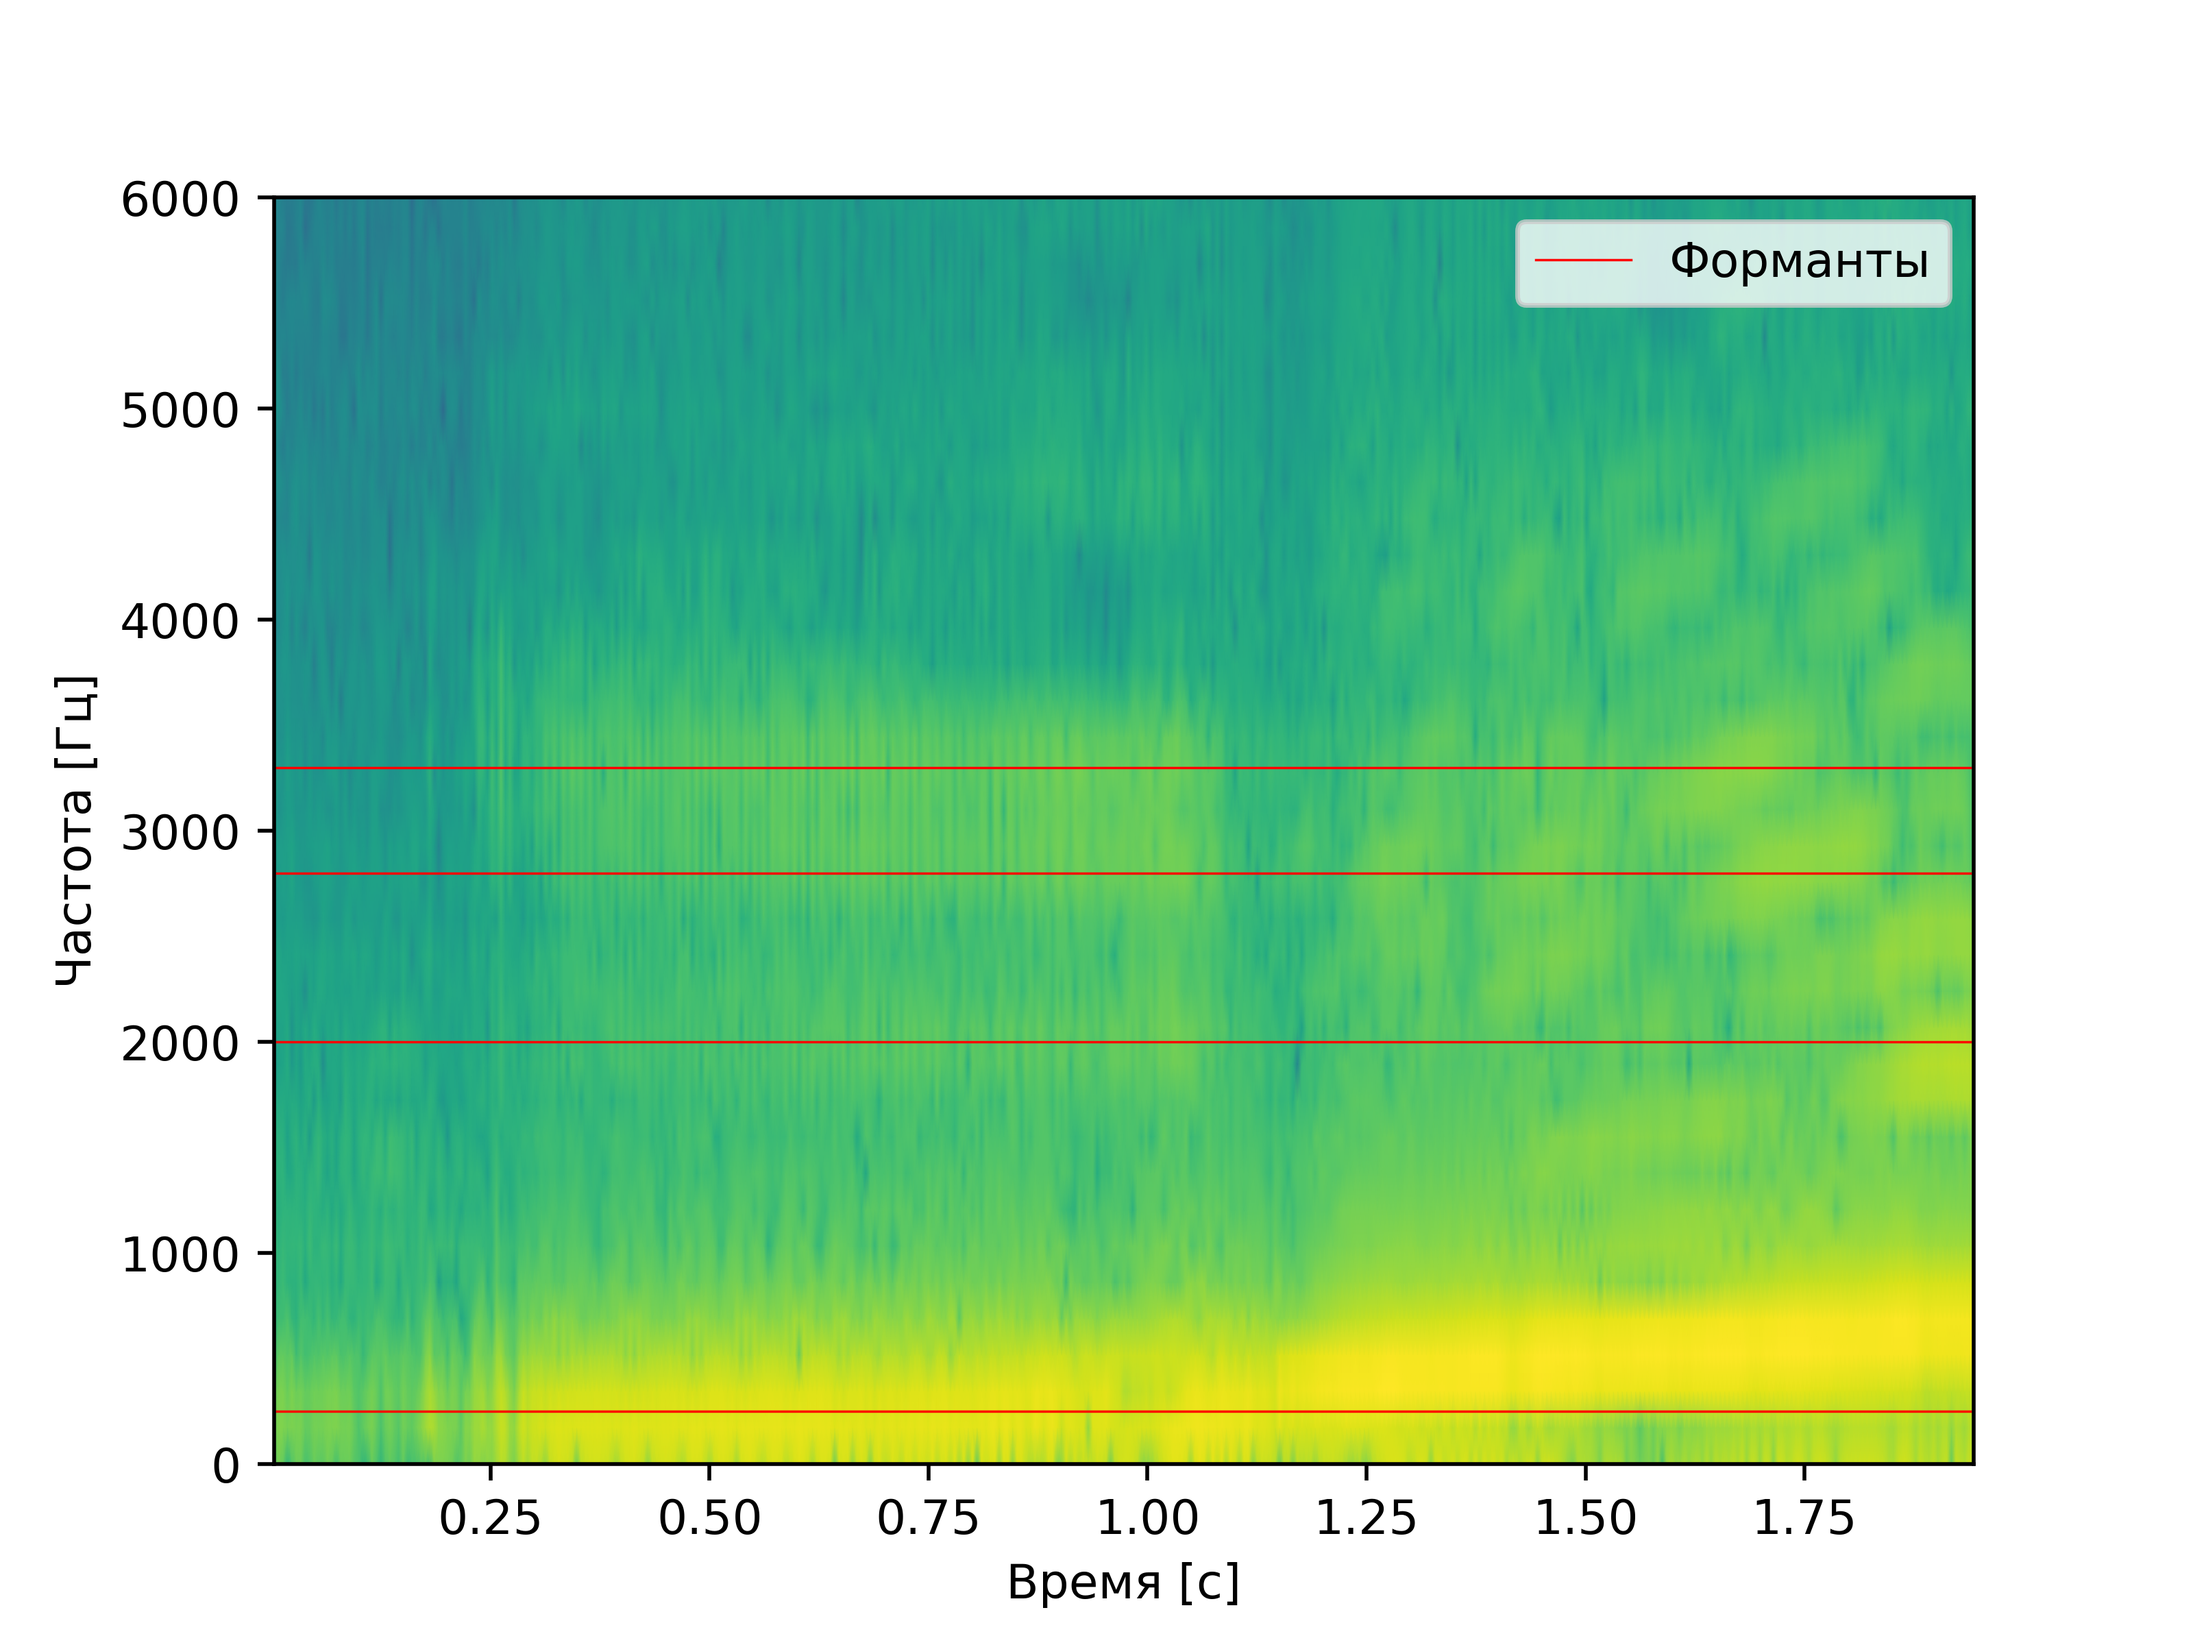
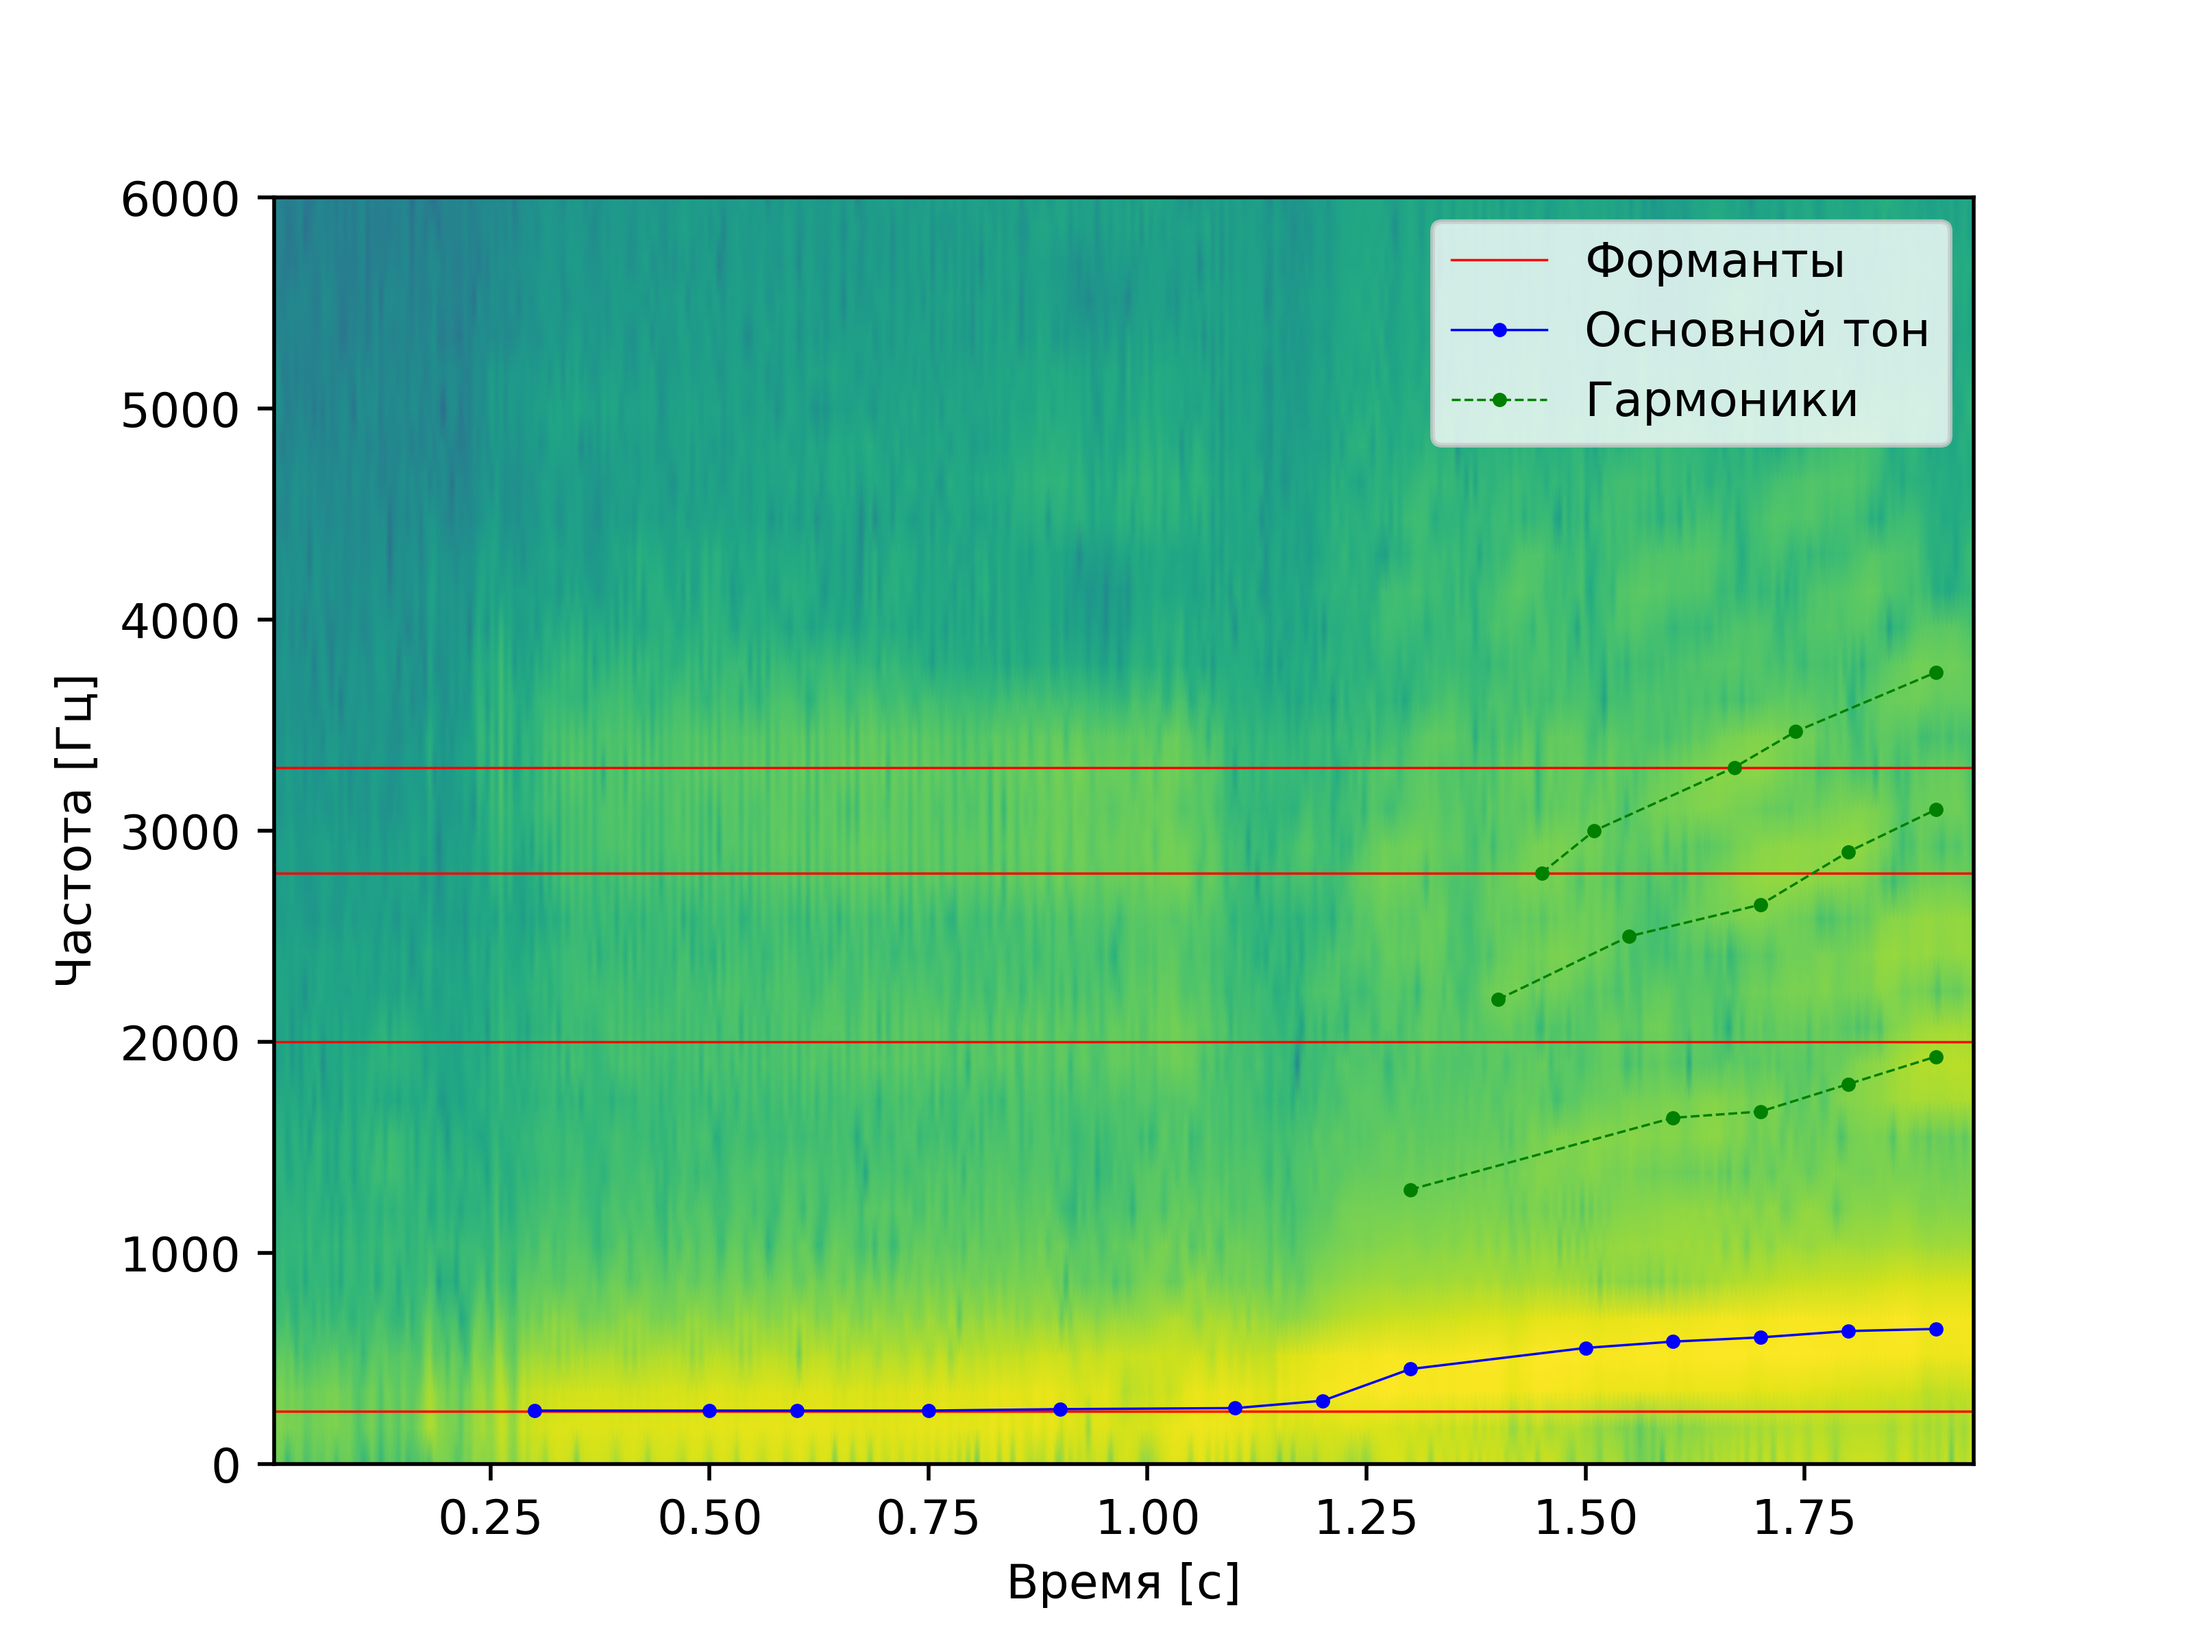
Add harmonics.

Changed region(s): [[0.625, 0.125, 0.9062, 0.2812]]

diff --git a/laba10/main.py b/laba10/main.py
@@ -38,11 +38,11 @@ if __name__ == '__main__':
     denoised = denoise(samples, sample_rate, cutoff_freuency = 4000)
     spectrogram_plot(denoised, sample_rate, 6000)
     plt.axhline(y = 300, color = 'r', linestyle = '-', lw= 0.5, label = "Форманты")
-    plt.axhline(y = 750, color = 'r', linestyle = '-', lw= 0.5)
+    plt.axhline(y = 740, color = 'r', linestyle = '-', lw= 0.5)
     plt.axhline(y = 1200, color = 'r', linestyle = '-', lw= 0.5)
     plt.axhline(y = 2600, color = 'r', linestyle = '-', lw= 0.5)
     plt.axhline(y = 3100, color = 'r', linestyle = '-', lw= 0.5)
-    plt.legend(bbox_to_anchor = (1.0, 1), loc = 'upper right')
+    plt.legend()
     plt.savefig('results/denoised/denoised_a.png', dpi = dpi)
     plt.clf()
 
@@ -63,7 +63,24 @@ if __name__ == '__main__':
     plt.axhline(y = 2000, color = 'r', linestyle = '-', lw= 0.5)
     plt.axhline(y = 2800, color = 'r', linestyle = '-', lw= 0.5)
     plt.axhline(y = 3300, color = 'r', linestyle = '-', lw= 0.5)
-    plt.legend(bbox_to_anchor = (1.0, 1), loc = 'upper right')
+    
+    main_tone_xs = [0.3, 0.5, 0.6, 0.75, 0.9, 1.1, 1.2, 1.3, 1.5, 1.6, 1.7, 1.8, 1.9]
+    main_tone_ys = [253, 253, 253,  253, 260, 265, 300, 450, 550, 580, 600, 630, 640]
+    plt.plot(main_tone_xs, main_tone_ys, 'o-b', label = "Основной тон", lw = 0.5, ms=2)
+    
+    garmonic1_xs = [ 1.3,  1.6,  1.7,  1.8,  1.9]
+    garmonic1_ys = [1300, 1640, 1670, 1800, 1930]
+    plt.plot(garmonic1_xs,garmonic1_ys, 'o--g', label = "Гармоники", lw = 0.5, ms=2)
+
+    garmonic2_xs = [ 1.4,  1.55,  1.7,  1.8,  1.9]
+    garmonic2_ys = [2200,  2500, 2650, 2900, 3100]
+    plt.plot(garmonic2_xs,garmonic2_ys, 'o--g', lw = 0.5, ms=2)
+    
+    garmonic3_xs = [ 1.45,  1.51,  1.67, 1.74,  1.9]
+    garmonic3_ys = [ 2800,  3000, 3300, 3470, 3750]
+    plt.plot(garmonic3_xs,garmonic3_ys, 'o--g', lw = 0.5, ms=2)
+    
+    plt.legend()
     plt.savefig('results/denoised/denoised_i.png', dpi = dpi)
     plt.clf()
 
@@ -83,7 +100,7 @@ if __name__ == '__main__':
     plt.axhline(y = 600, color = 'r', linestyle = '-', lw= 0.5)
     plt.axhline(y = 1000, color = 'r', linestyle = '-', lw= 0.5)
     plt.axhline(y = 2300, color = 'r', linestyle = '-', lw= 0.5)
-    plt.legend(bbox_to_anchor = (1.0, 1), loc = 'upper right')
+    plt.legend()
     plt.savefig('results/denoised/denoised_gav.png', dpi = dpi)
     plt.clf()
 

diff --git a/laba10/README.md b/laba10/README.md
@@ -9,7 +9,7 @@
 ![](results/denoised/denoised_a.png)
 
 ### Анализ
-**Форманты:** форманта **FI** находится на частоте примерно 300 Гц, **FII** на частоте примерно 750 Гц,
+**Форманты:** форманта **FI** находится на частоте примерно 300 Гц, **FII** на частоте примерно 740 Гц,
 **FIII** на частоте 1200 Гц. После них идет провал,
 и следующие неосновные две форманты появляются на частотах
 приблизительно в 2600 Гц и 3100 Гц
@@ -18,6 +18,8 @@
 ![](results/denoised/denoised_i.png)
 
 ### Анализ
+**Основной тон:** 
+
 **Форманты:** основная форманта **FI** находится на частоте примерно 250 Гц, далее, после провала прослеживается **FII** на частоте примерно 2000 Гц, еще выше  **FIII** на частоте 2800 Гц. После можно различить
 **FIV** на частоте 3300 Гц.
 
